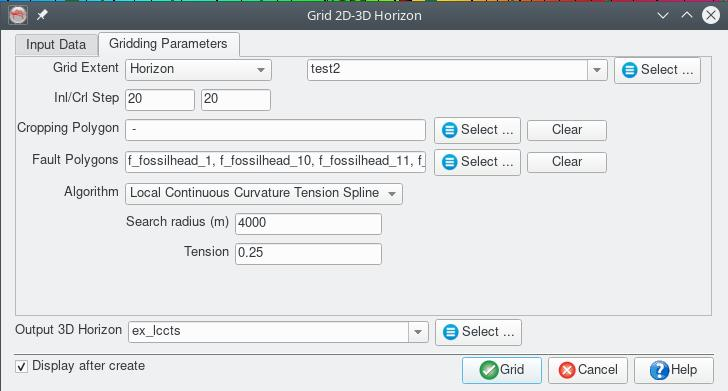
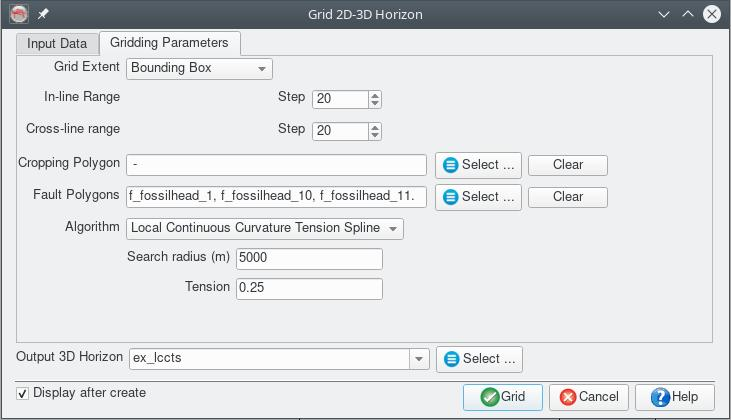
Update for release 6.4.4

Changed region(s): [[0.0, 0.0, 1.0, 1.0], [0.5137, 0.6752, 0.544, 0.7059]]

diff --git a/docs/plugins/Grid2D-3D.html b/docs/plugins/Grid2D-3D.html
@@ -172,8 +172,8 @@
 
 <figure>
   <br/>
-  <img src="images/grid2d-3d_input_2.jpg" class="img-responsive center-block" alt="Grid 2D-3D horizon plugin input dialog, continuous curvature interpolation settings">
-  <figcaption class="text-center">Grid 2D-3D horizon plugin input dialog, continuous curvature interpolation settings</figcaption>
+  <img src="images/grid2d-3d_input_2.jpg" class="img-responsive center-block" alt="Grid 2D-3D horizon plugin input dialog, showing Bounding Box grid extent and continuous curvature interpolation settings">
+  <figcaption class="text-center">Grid 2D-3D horizon plugin input dialog, showing Bounding Box grid extent and continuous curvature interpolation settings</figcaption>
   <br/>
 </figure>
 
@@ -183,7 +183,7 @@
 <li>Horizon - set the output horizon extent to match an existing horizon in the survey/project</li>
 </ul>
 </li>
-<li>Inl/Crl Step - specifies the the output grid spacing </li>
+<li>Inl/Crl Step - Under the BoundingBox Grid Extent option the output grid spacing can be specified relative to the 3D survey step/sampling </li>
 <li>Cropping Polygon - select a polygon to crop the grid output</li>
 <li>Fault Polygons - select  polygons to use as fault constraints during gridding. Suggest fault naming scheme that prefixes the polygons with "f_horizon name" to make them easy to select</li>
 <li>Algorithm - Local Continuous Curvature Tension Spline parameters:<ul>
@@ -194,8 +194,8 @@
 </ul>
 <figure>
   <br/>
-  <img src="images/grid2d-3d_input_3.jpg" class="img-responsive center-block" alt="Grid 2D-3D horizon plugin input dialog, inverse distance weighted interpolation settings">
-  <figcaption class="text-center">Grid 2D-3D horizon plugin input dialog, inverse distance weighted interpolation settings</figcaption>
+  <img src="images/grid2d-3d_input_3.jpg" class="img-responsive center-block" alt="Grid 2D-3D horizon plugin input dialog, showing Horizon grid extent settings and inverse distance squared interpolation settings">
+  <figcaption class="text-center">Grid 2D-3D horizon plugin input dialog, showing Horizon grid extent settings and inverse distance squared interpolation settings</figcaption>
   <br/>
 </figure>
 

diff --git a/docs/installation/download-binary.html b/docs/installation/download-binary.html
@@ -138,7 +138,7 @@
 <tbody>
 <tr>
 <td><strong>Linux</strong></td>
-<td><a href="https://github.com/waynegm/OpendTect-Plugins/releases/download/v6.4.3/opendtect-6.4.3-plugins_lux64.tar.gz" onclick="var d=new Date(); ga('set', 'nonInteraction', true);ga('send', 'event', 'Linux_6.4.3', 'download', d.toISOString().slice(0,9), 1);" download><button class="button"><i class="fa fa-download"></i><b>Download Linux_6.4.3</b></button></a></td>
+<td><a href="https://github.com/waynegm/OpendTect-Plugins/releases/download/v6.4.4/opendtect-6.4.4-plugins_lux64.tar.gz" onclick="var d=new Date(); ga('set', 'nonInteraction', true);ga('send', 'event', 'Linux_6.4.4', 'download', d.toISOString().slice(0,9), 1);" download><button class="button"><i class="fa fa-download"></i><b>Download Linux_6.4.4</b></button></a></td>
 </tr>
 <tr>
 <td></td>
@@ -146,7 +146,7 @@
 </tr>
 <tr>
 <td><strong>Windows</strong></td>
-<td><a href="https://github.com/waynegm/OpendTect-Plugins/releases/download/v6.4.3/opendtect-6.4.3-plugins_win64.zip" onclick="var d=new Date(); ga('set', 'nonInteraction', true);ga('send', 'event', 'Win_6.4.3', 'download', d.toISOString().slice(0,9), 1);" download><button class="button"><i class="fa fa-download"></i><b>Download Win_6.4.3</b></button></a></td>
+<td><a href="https://github.com/waynegm/OpendTect-Plugins/releases/download/v6.4.4/opendtect-6.4.4-plugins_win64.zip" onclick="var d=new Date(); ga('set', 'nonInteraction', true);ga('send', 'event', 'Win_6.4.4', 'download', d.toISOString().slice(0,9), 1);" download><button class="button"><i class="fa fa-download"></i><b>Download Win_6.4.4</b></button></a></td>
 </tr>
 <tr>
 <td></td>

diff --git a/docs/plugins/DataExtentHorizon.html b/docs/plugins/DataExtentHorizon.html
@@ -127,7 +127,7 @@
     <main>
       <p>This plugin, for the open source seismic interpretation platform <a href="https://opendtect.org" title="OpendTect">OpendTect</a> Version 6.4.0 or later, creates a constant Z value 3D horizon which covers the extent of 2D and 3D seismic data in an <a href="https://opendtect.org" title="OpendTect">OpendTect</a> survey/project. With the horizon displayed it is possible to draw fault polygons and grid clipping polygons that extend beyond the 3D survey definition. These can then be used in the Grid 2D-3D plugin to produce structure maps that extend across both 2D and 3D seismic interpretation in an <a href="https://opendtect.org" title="OpendTect">OpendTect</a> survey/project.</p>
 <h3 id="description">Description</h3>
-<p>The plugin adds a "Covering 2D-3D Data Extent..." item to the "New" menu option for 3D Horizon items in the data display tree. Selecting the item opens a dialog box for:</p>
+<p>The plugin adds a "Covering 2D-3D Data Extent..." item to the "Processing|Create Horizon Output" menu item which opens a dialog box for:</p>
 <ul>
 <li>Specifying a constant Z value for the output horizon</li>
 <li>Selecting 2D and 3D seismic data that the horizon should cover</li>

diff --git a/plugins/Grid2D-3D.md b/plugins/Grid2D-3D.md
@@ -38,19 +38,19 @@ If fault constraints are provided only input data on the same side of the fault 
 
 {{ figure('grid2d-3d_input_1.jpg', 'Grid 2D-3D horizon plugin input data selection dialog') }}
 
-{{ figure('grid2d-3d_input_2.jpg', 'Grid 2D-3D horizon plugin input dialog, continuous curvature interpolation settings') }}
+{{ figure('grid2d-3d_input_2.jpg', 'Grid 2D-3D horizon plugin input dialog, showing Bounding Box grid extent and continuous curvature interpolation settings') }}
 
 -  Grid Extent: Two options available:
     -  Bounding Box - set the output horizon extent from the extent of the input data, adjusted to snap to the specified Inl/Crl steps
     -  Horizon - set the output horizon extent to match an existing horizon in the survey/project
--  Inl/Crl Step - specifies the the output grid spacing 
+-  Inl/Crl Step - Under the BoundingBox Grid Extent option the output grid spacing can be specified relative to the 3D survey step/sampling 
 -  Cropping Polygon - select a polygon to crop the grid output
 -  Fault Polygons - select  polygons to use as fault constraints during gridding. Suggest fault naming scheme that prefixes the polygons with "f_horizon name" to make them easy to select
 -  Algorithm - Local Continuous Curvature Tension Spline parameters:
     -  Search radius - only data within a square +/- this radius  is used to estimate a grid node
     -  Tension - the spline tensioning parameter, varies from 0 (equivalent to Minimum Curvature) to 1 (equivalent to an elastic membrane) 
 
-{{ figure('grid2d-3d_input_3.jpg', 'Grid 2D-3D horizon plugin input dialog, inverse distance weighted interpolation settings') }}
+{{ figure('grid2d-3d_input_3.jpg', 'Grid 2D-3D horizon plugin input dialog, showing Horizon grid extent settings and inverse distance squared interpolation settings') }}
 
 -  Algorithm - Inverse Distance Squared parameters:
     -  Search radius (if checked) - only data within a square +/- this radius  is used to estimate a grid node, otherwise use all input data (subject to the fault constaints) for each grid node.

diff --git a/installation/download-binary.md b/installation/download-binary.md
@@ -14,8 +14,8 @@ Compiled versions of the plugins for Linux x86_64 and Windows x86_64 are availab
 ## OpendTect Version 6.4
 | OS | LATEST |
 |---|---|
-| **Linux** | {{ download('Linux_6.4.3', 'https://github.com/waynegm/OpendTect-Plugins/releases/download/v6.4.3/opendtect-6.4.3-plugins_lux64.tar.gz') }} |
-| **Windows** | {{ download('Win_6.4.3', 'https://github.com/waynegm/OpendTect-Plugins/releases/download/v6.4.3/opendtect-6.4.3-plugins_win64.zip') }} |
+| **Linux** | {{ download('Linux_6.4.4', 'https://github.com/waynegm/OpendTect-Plugins/releases/download/v6.4.4/opendtect-6.4.4-plugins_lux64.tar.gz') }} |
+| **Windows** | {{ download('Win_6.4.4', 'https://github.com/waynegm/OpendTect-Plugins/releases/download/v6.4.4/opendtect-6.4.4-plugins_win64.zip') }} |
 
 
 ## OpendTect Version 6.2

diff --git a/plugins/DataExtentHorizon.md b/plugins/DataExtentHorizon.md
@@ -13,7 +13,7 @@ This plugin, for the open source seismic interpretation platform [opendtect] Ver
 
 ## Description
 
-The plugin adds a "Covering 2D-3D Data Extent..." item to the "New" menu option for 3D Horizon items in the data display tree. Selecting the item opens a dialog box for:
+The plugin adds a "Covering 2D-3D Data Extent..." item to the "Processing|Create Horizon Output" menu item which opens a dialog box for:
 
 -  Specifying a constant Z value for the output horizon
 -  Selecting 2D and 3D seismic data that the horizon should cover
